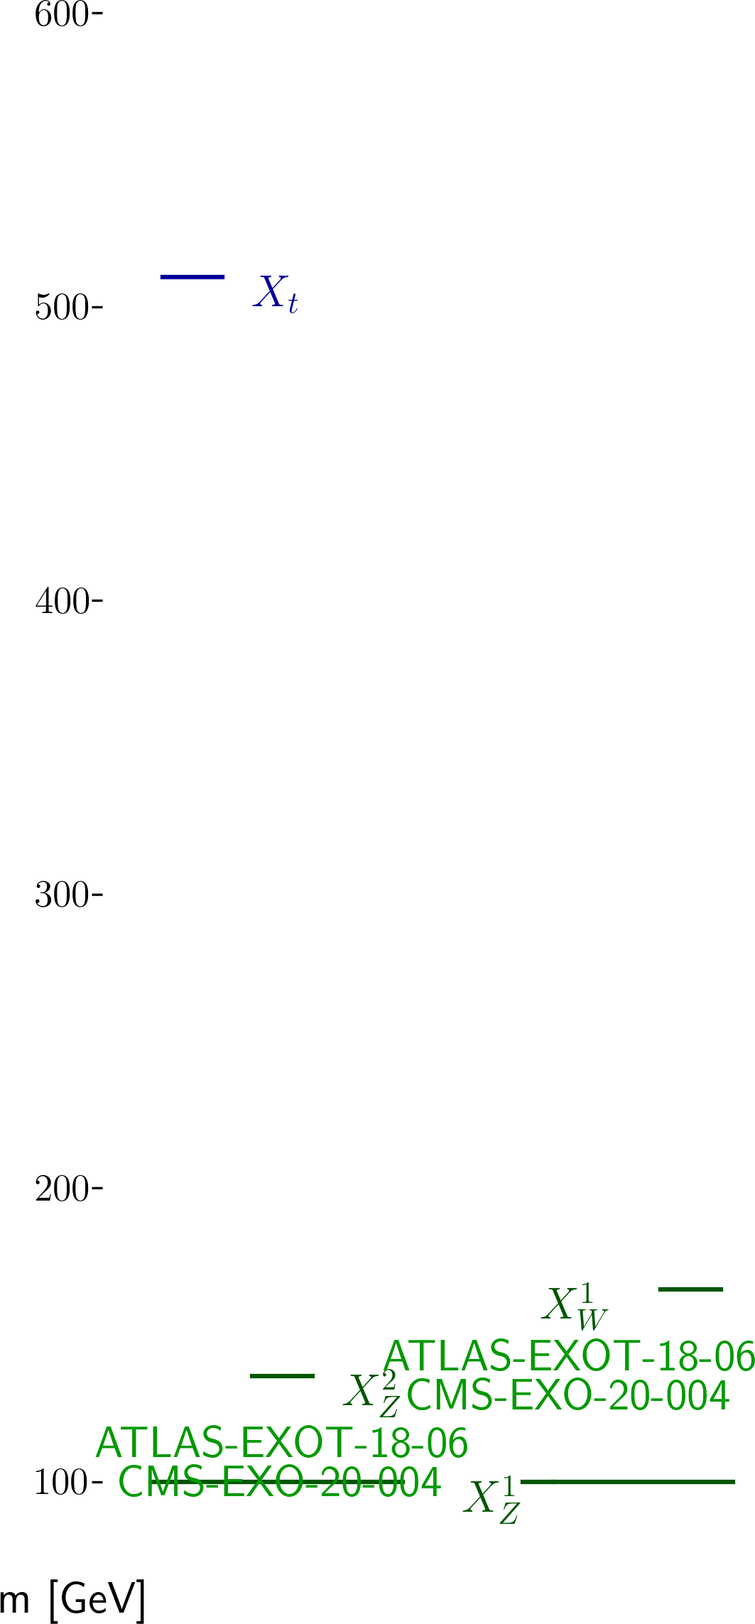
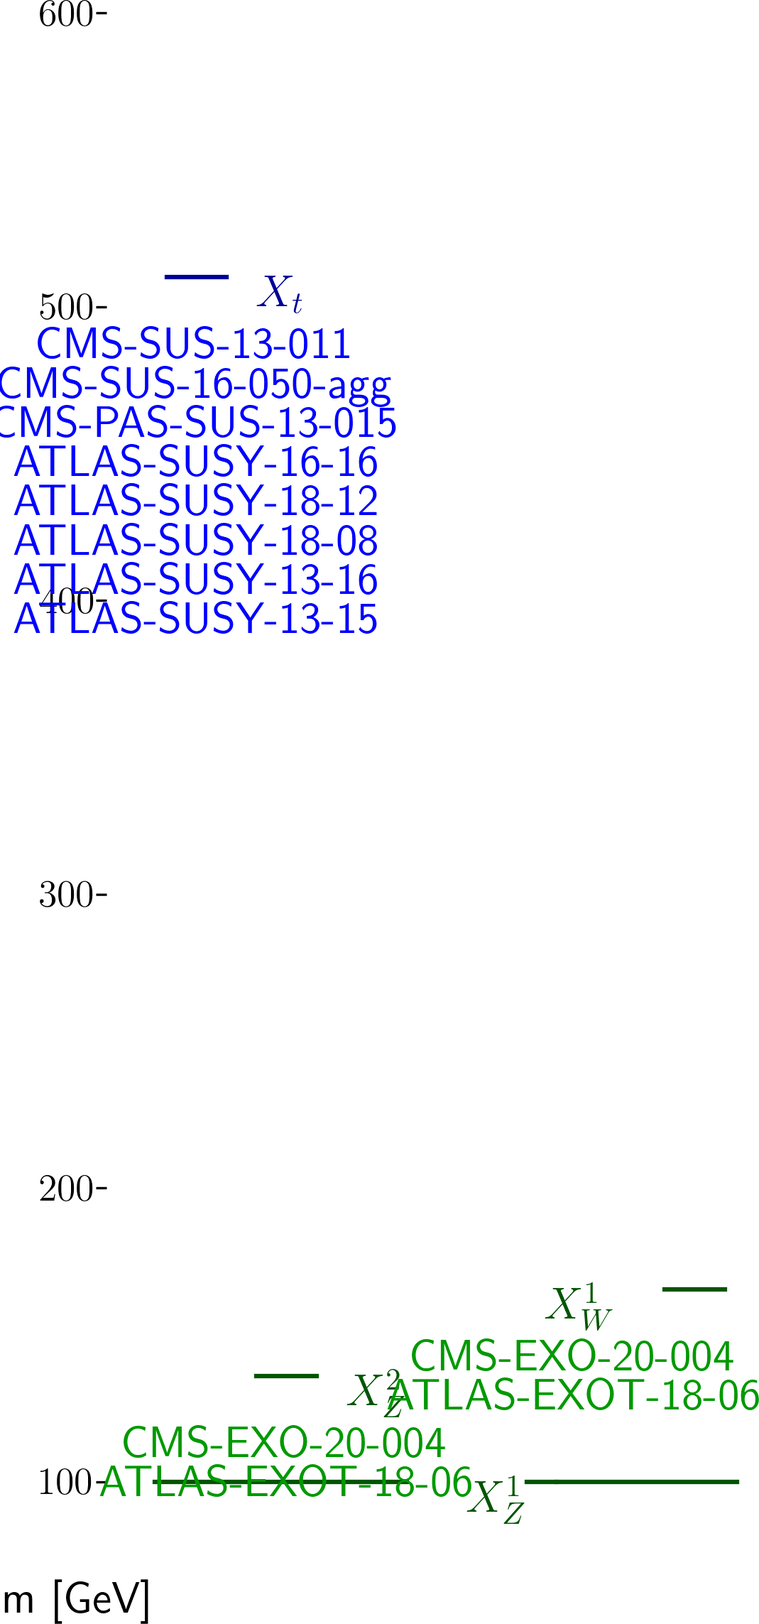
stops310

diff --git a/protomodels/stops_310/rawnumbers.html b/protomodels/stops_310/rawnumbers.html
@@ -3,6 +3,77 @@
 </tr>
 <tr><td><a href=http://cms-results.web.cern.ch/cms-results/public-results/publications/EXO-20-004/>CMS-EXO-20-004</a></td><td>comb</td> <td>-</td><td>TChiISR, TChiZISRqq</td><td> 2e+02 fb </td><td> 1e+02 fb</td><td style="text-align:right">4.6 &sigma;</td><td style="text-align:right">X<sup>1</sup><sub>W</sub>, X<sup>1</sup><sub>Z</sub>, X<sup>2</sup><sub>Z</sub></td></tr>
 <tr><td><a href=https://atlas.web.cern.ch/Atlas/GROUPS/PHYSICS/PAPERS/EXOT-2018-06/>ATLAS-EXOT-2018-06</a></td><td>em</td> <td>EM10</td><td>TChiISR, TChiZISRqq</td><td>413</td><td>359.00 +/- 10.00</td><td style="text-align:right">2.5 &sigma;</td><td style="text-align:right">X<sup>1</sup><sub>W</sub>, X<sup>1</sup><sub>Z</sub>, X<sup>2</sup><sub>Z</sub></td></tr>
+<tr><td><a href=https://atlas.web.cern.ch/Atlas/GROUPS/PHYSICS/PAPERS/SUSY-2018-12/>ATLAS-SUSY-2018-12</a></td><td>em</td> <td>SRBTT</td><td>T2tt</td><td>67</td><td>46.00 +/- 7.00</td><td style="text-align:right">2.1 &sigma;</td><td style="text-align:right">X<sup>1</sup><sub>Z</sub>, X<sub>t</sub></td></tr>
+<tr><td><a href=https://atlas.web.cern.ch/Atlas/GROUPS/PHYSICS/PAPERS/SUSY-2018-08/>ATLAS-SUSY-2018-08</a></td><td>em</td> <td>SRSF140</td><td>T2tt</td><td>9</td><td>5.10 +/- 0.90</td><td style="text-align:right">1.5 &sigma;</td><td style="text-align:right">X<sup>1</sup><sub>Z</sub>, X<sub>t</sub></td></tr>
+<tr><td><a href=https://atlas.web.cern.ch/Atlas/GROUPS/PHYSICS/PAPERS/SUSY-2016-16/>ATLAS-SUSY-2016-16</a></td><td>em</td> <td>tN_med</td><td>T2tt</td><td>50</td><td>36.30 +/- 6.60</td><td style="text-align:right">1.5 &sigma;</td><td style="text-align:right">X<sup>1</sup><sub>Z</sub>, X<sub>t</sub></td></tr>
+<tr><td><a href=https://atlas.web.cern.ch/Atlas/GROUPS/PHYSICS/PAPERS/SUSY-2013-16/>ATLAS-SUSY-2013-16</a></td><td>em</td> <td>SRA4</td><td>T2tt</td><td>4</td><td>2.40 +/- 0.70</td><td style="text-align:right">0.9 &sigma;</td><td style="text-align:right">X<sup>1</sup><sub>Z</sub>, X<sub>t</sub></td></tr>
+<tr><td><a href=https://atlas.web.cern.ch/Atlas/GROUPS/PHYSICS/PAPERS/SUSY-2013-15/>ATLAS-SUSY-2013-15</a></td><td>em</td> <td>tNboost</td><td>T2tt</td><td>5</td><td>3.30 +/- 0.70</td><td style="text-align:right">0.9 &sigma;</td><td style="text-align:right">X<sup>1</sup><sub>Z</sub>, X<sub>t</sub></td></tr>
+<tr><td><a href=https://twiki.cern.ch/twiki/bin/view/CMSPublic/PhysicsResultsSUS13015>CMS-PAS-SUS-13-015</a></td><td>em</td> <td>pTmiss350_Nb2</td><td>T2tt</td><td>15</td><td>8.60 +/- 7.10</td><td style="text-align:right">0.8 &sigma;</td><td style="text-align:right">X<sup>1</sup><sub>Z</sub>, X<sub>t</sub></td></tr>
+<tr><td><a href=http://cms-results.web.cern.ch/cms-results/public-results/publications/SUS-16-050/index.html>CMS-SUS-16-050-agg</a></td><td>comb</td> <td>-</td><td>T2tt</td><td> 2 fb </td><td> 2 fb</td><td style="text-align:right">0.7 &sigma;</td><td style="text-align:right">X<sup>1</sup><sub>Z</sub>, X<sub>t</sub></td></tr>
+<tr><td><a href=https://twiki.cern.ch/twiki/bin/view/CMSPublic/PhysicsResultsSUS13011>CMS-SUS-13-011</a></td><td>em</td> <td>LM150</td><td>T2tt</td><td>227</td><td>251.00 +/- 50.00</td><td style="text-align:right">-0.4 &sigma;</td><td style="text-align:right">X<sup>1</sup><sub>Z</sub>, X<sub>t</sub></td></tr>
 </table>
 <table style='color:grey'>
-<tr><th>Not in Best Combo</th><th>Type</th><th>Dataset</th><th>Topos</th><th>Observed</th><th>Expected</th><th>Approx &sigma;</th><th>Particles</th></table>
+<tr><th>Not in Best Combo</th><th>Type</th><th>Dataset</th><th>Topos</th><th>Observed</th><th>Expected</th><th>Approx &sigma;</th><th>Particles</th><tr><td><a href=https://atlas.web.cern.ch/Atlas/GROUPS/PHYSICS/PAPERS/SUSY-2015-02/>ATLAS-SUSY-2015-02</a></td><td>em</td> <td>SR1</td><td>T2tt</td><td>12</td><td>5.50 +/- 0.72</td><td style="text-align:right">2.3 &sigma;</td><td style="text-align:right">X<sup>1</sup><sub>Z</sub>, X<sub>t</sub></td></tr>
+<tr><td><a href=https://twiki.cern.ch/twiki/bin/view/CMSPublic/PhysicsResultsSUS13012>CMS-SUS-13-012</a></td><td>em</td> <td>6NJet8_500HT800 ...</td><td>T2tt</td><td>9</td><td>0.80 +/- 3.30</td><td style="text-align:right">1.8 &sigma;</td><td style="text-align:right">X<sup>1</sup><sub>Z</sub>, X<sub>t</sub></td></tr>
+<tr><td><a href=https://twiki.cern.ch/twiki/bin/view/CMSPublic/PhysicsResultsSUS13012>CMS-SUS-13-012</a></td><td>em</td> <td>3NJet6_1000HT12 ...</td><td>T2tt</td><td>32</td><td>22.80 +/- 5.20</td><td style="text-align:right">1.3 &sigma;</td><td style="text-align:right">X<sup>1</sup><sub>Z</sub>, X<sub>t</sub></td></tr>
+<tr><td><a href=https://atlas.web.cern.ch/Atlas/GROUPS/PHYSICS/PAPERS/SUSY-2013-04/>ATLAS-SUSY-2013-04</a></td><td>em</td> <td>GtGrid_SR_10ij5 ...</td><td>T2tt</td><td>3</td><td>1.37 +/- 0.35</td><td style="text-align:right">1.2 &sigma;</td><td style="text-align:right">X<sup>1</sup><sub>Z</sub>, X<sub>t</sub></td></tr>
+<tr><td><a href=http://cms-results.web.cern.ch/cms-results/public-results/publications/SUS-16-033/index.html>CMS-SUS-16-033</a></td><td>em</td> <td>SR2_Njet3_Nb0_H ...</td><td>T2tt</td><td>71</td><td>55.20 +/- 11.50</td><td style="text-align:right">1.1 &sigma;</td><td style="text-align:right">X<sup>1</sup><sub>Z</sub>, X<sub>t</sub></td></tr>
+<tr><td><a href=https://twiki.cern.ch/twiki/bin/view/CMSPublic/PhysicsResultsSUS13012>CMS-SUS-13-012</a></td><td>em</td> <td>3NJet6_1500HTin ...</td><td>T2tt</td><td>39</td><td>29.70 +/- 5.80</td><td style="text-align:right">1.1 &sigma;</td><td style="text-align:right">X<sup>1</sup><sub>Z</sub>, X<sub>t</sub></td></tr>
+<tr><td><a href=https://twiki.cern.ch/twiki/bin/view/CMSPublic/PhysicsResultsSUS13012>CMS-SUS-13-012</a></td><td>em</td> <td>8NJetinf_500HT8 ...</td><td>T2tt</td><td>8</td><td>4.80 +/- 2.30</td><td style="text-align:right">1.0 &sigma;</td><td style="text-align:right">X<sup>1</sup><sub>Z</sub>, X<sub>t</sub></td></tr>
+<tr><td><a href=https://twiki.cern.ch/twiki/bin/view/CMSPublic/PhysicsResultsSUS13012>CMS-SUS-13-012</a></td><td>em</td> <td>3NJet6_1250HT15 ...</td><td>T2tt</td><td>23</td><td>17.60 +/- 4.10</td><td style="text-align:right">0.9 &sigma;</td><td style="text-align:right">X<sup>1</sup><sub>Z</sub>, X<sub>t</sub></td></tr>
+<tr><td><a href=https://atlas.web.cern.ch/Atlas/GROUPS/PHYSICS/PAPERS/SUSY-2013-04/>ATLAS-SUSY-2013-04</a></td><td>em</td> <td>GtGrid_SR_8ij80 ...</td><td>T2tt</td><td>2</td><td>0.90 +/- 0.60</td><td style="text-align:right">0.9 &sigma;</td><td style="text-align:right">X<sup>1</sup><sub>Z</sub>, X<sub>t</sub></td></tr>
+<tr><td><a href=https://twiki.cern.ch/twiki/bin/view/CMSPublic/PhysicsResultsSUS13012>CMS-SUS-13-012</a></td><td>em</td> <td>3NJet6_800HT100 ...</td><td>T2tt</td><td>124</td><td>108.00 +/- 15.00</td><td style="text-align:right">0.9 &sigma;</td><td style="text-align:right">X<sup>1</sup><sub>Z</sub>, X<sub>t</sub></td></tr>
+<tr><td><a href=https://atlas.web.cern.ch/Atlas/GROUPS/PHYSICS/PAPERS/SUSY-2013-04/>ATLAS-SUSY-2013-04</a></td><td>em</td> <td>GtGrid_SR_9ej50 ...</td><td>T2tt</td><td>5</td><td>3.30 +/- 0.70</td><td style="text-align:right">0.9 &sigma;</td><td style="text-align:right">X<sup>1</sup><sub>Z</sub>, X<sub>t</sub></td></tr>
+<tr><td><a href=https://twiki.cern.ch/twiki/bin/view/CMSPublic/PhysicsResultsSUS13012>CMS-SUS-13-012</a></td><td>em</td> <td>8NJetinf_1000HT ...</td><td>T2tt</td><td>8</td><td>5.60 +/- 2.30</td><td style="text-align:right">0.8 &sigma;</td><td style="text-align:right">X<sup>1</sup><sub>Z</sub>, X<sub>t</sub></td></tr>
+<tr><td><a href=https://twiki.cern.ch/twiki/bin/view/CMSPublic/PhysicsResultsSUS13012>CMS-SUS-13-012</a></td><td>em</td> <td>6NJet8_800HT100 ...</td><td>T2tt</td><td>35</td><td>28.60 +/- 6.90</td><td style="text-align:right">0.8 &sigma;</td><td style="text-align:right">X<sup>1</sup><sub>Z</sub>, X<sub>t</sub></td></tr>
+<tr><td><a href=https://twiki.cern.ch/twiki/bin/view/CMSPublic/PhysicsResultsSUS13012>CMS-SUS-13-012</a></td><td>em</td> <td>6NJet8_500HT800 ...</td><td>T2tt</td><td>62</td><td>52.00 +/- 12.00</td><td style="text-align:right">0.7 &sigma;</td><td style="text-align:right">X<sup>1</sup><sub>Z</sub>, X<sub>t</sub></td></tr>
+<tr><td><a href=https://atlas.web.cern.ch/Atlas/GROUPS/PHYSICS/PAPERS/SUSY-2013-04/>ATLAS-SUSY-2013-04</a></td><td>em</td> <td>GtGrid_SR_8ej50 ...</td><td>T2tt</td><td>40</td><td>35.00 +/- 4.00</td><td style="text-align:right">0.7 &sigma;</td><td style="text-align:right">X<sup>1</sup><sub>Z</sub>, X<sub>t</sub></td></tr>
+<tr><td><a href=https://atlas.web.cern.ch/Atlas/GROUPS/PHYSICS/PAPERS/SUSY-2013-04/>ATLAS-SUSY-2013-04</a></td><td>em</td> <td>GtGrid_SR_9ej50 ...</td><td>T2tt</td><td>8</td><td>6.10 +/- 1.70</td><td style="text-align:right">0.7 &sigma;</td><td style="text-align:right">X<sup>1</sup><sub>Z</sub>, X<sub>t</sub></td></tr>
+<tr><td><a href=https://twiki.cern.ch/twiki/bin/view/CMSPublic/PhysicsResultsSUS13012>CMS-SUS-13-012</a></td><td>em</td> <td>3NJet6_1000HT12 ...</td><td>T2tt</td><td>335</td><td>305.00 +/- 41.00</td><td style="text-align:right">0.7 &sigma;</td><td style="text-align:right">X<sup>1</sup><sub>Z</sub>, X<sub>t</sub></td></tr>
+<tr><td><a href=http://cms-results.web.cern.ch/cms-results/public-results/publications/SUS-16-033/index.html>CMS-SUS-16-033</a></td><td>em</td> <td>SR6_Njet2_Nb2_H ...</td><td>T2tt</td><td>216</td><td>196.00 +/- 28.00</td><td style="text-align:right">0.6 &sigma;</td><td style="text-align:right">X<sup>1</sup><sub>Z</sub>, X<sub>t</sub></td></tr>
+<tr><td><a href=http://cms-results.web.cern.ch/cms-results/public-results/publications/SUS-16-033/index.html>CMS-SUS-16-033</a></td><td>em</td> <td>SR1_Njet2_Nb0_H ...</td><td>T2tt</td><td>7838</td><td>7584.00 +/- 433.00</td><td style="text-align:right">0.6 &sigma;</td><td style="text-align:right">X<sup>1</sup><sub>Z</sub>, X<sub>t</sub></td></tr>
+<tr><td><a href=http://cms-results.web.cern.ch/cms-results/public-results/publications/SUS-16-033/index.html>CMS-SUS-16-033</a></td><td>em</td> <td>SR12_Njet5_Nb1_ ...</td><td>T2tt</td><td>48</td><td>42.20 +/- 9.70</td><td style="text-align:right">0.5 &sigma;</td><td style="text-align:right">X<sup>1</sup><sub>Z</sub>, X<sub>t</sub></td></tr>
+<tr><td><a href=https://twiki.cern.ch/twiki/bin/view/CMSPublic/PhysicsResultsSUS13012>CMS-SUS-13-012</a></td><td>em</td> <td>3NJet6_500HT800 ...</td><td>T2tt</td><td>454</td><td>418.00 +/- 66.00</td><td style="text-align:right">0.5 &sigma;</td><td style="text-align:right">X<sup>1</sup><sub>Z</sub>, X<sub>t</sub></td></tr>
+<tr><td><a href=http://cms-results.web.cern.ch/cms-results/public-results/publications/SUS-16-033/index.html>CMS-SUS-16-033</a></td><td>em</td> <td>SR7_Njet3_Nb1_H ...</td><td>T2tt</td><td>123</td><td>113.00 +/- 18.00</td><td style="text-align:right">0.5 &sigma;</td><td style="text-align:right">X<sup>1</sup><sub>Z</sub>, X<sub>t</sub></td></tr>
+<tr><td><a href=https://twiki.cern.ch/twiki/bin/view/CMSPublic/PhysicsResultsSUS13012>CMS-SUS-13-012</a></td><td>em</td> <td>3NJet6_1500HTin ...</td><td>T2tt</td><td>94</td><td>86.00 +/- 17.00</td><td style="text-align:right">0.4 &sigma;</td><td style="text-align:right">X<sup>1</sup><sub>Z</sub>, X<sub>t</sub></td></tr>
+<tr><td><a href=http://cms-results.web.cern.ch/cms-results/public-results/publications/SUS-16-033/index.html>CMS-SUS-16-033</a></td><td>em</td> <td>SR9_NJet5_Nb2_H ...</td><td>T2tt</td><td>6</td><td>4.40 +/- 3.40</td><td style="text-align:right">0.4 &sigma;</td><td style="text-align:right">X<sup>1</sup><sub>Z</sub>, X<sub>t</sub></td></tr>
+<tr><td><a href=https://twiki.cern.ch/twiki/bin/view/CMSPublic/PhysicsResultsSUS13012>CMS-SUS-13-012</a></td><td>em</td> <td>3NJet6_500HT800 ...</td><td>T2tt</td><td>62</td><td>57.40 +/- 11.20</td><td style="text-align:right">0.4 &sigma;</td><td style="text-align:right">X<sup>1</sup><sub>Z</sub>, X<sub>t</sub></td></tr>
+<tr><td><a href=https://atlas.web.cern.ch/Atlas/GROUPS/PHYSICS/PAPERS/SUSY-2013-04/>ATLAS-SUSY-2013-04</a></td><td>em</td> <td>GtGrid_SR_8ej50 ...</td><td>T2tt</td><td>44</td><td>40.00 +/- 10.00</td><td style="text-align:right">0.4 &sigma;</td><td style="text-align:right">X<sup>1</sup><sub>Z</sub>, X<sub>t</sub></td></tr>
+<tr><td><a href=https://atlas.web.cern.ch/Atlas/GROUPS/PHYSICS/PAPERS/SUSY-2013-04/>ATLAS-SUSY-2013-04</a></td><td>em</td> <td>GtGrid_SR_7ej80 ...</td><td>T2tt</td><td>12</td><td>11.00 +/- 2.20</td><td style="text-align:right">0.3 &sigma;</td><td style="text-align:right">X<sup>1</sup><sub>Z</sub>, X<sub>t</sub></td></tr>
+<tr><td><a href=http://cms-results.web.cern.ch/cms-results/public-results/publications/SUS-16-033/index.html>CMS-SUS-16-033</a></td><td>em</td> <td>SR4_Njet5_Nb0_H ...</td><td>T2tt</td><td>25</td><td>23.00 +/- 6.50</td><td style="text-align:right">0.3 &sigma;</td><td style="text-align:right">X<sup>1</sup><sub>Z</sub>, X<sub>t</sub></td></tr>
+<tr><td><a href=https://twiki.cern.ch/twiki/bin/view/CMSPublic/PhysicsResultsSUS13012>CMS-SUS-13-012</a></td><td>em</td> <td>3NJet6_800HT100 ...</td><td>T2tt</td><td>808</td><td>777.00 +/- 107.00</td><td style="text-align:right">0.3 &sigma;</td><td style="text-align:right">X<sup>1</sup><sub>Z</sub>, X<sub>t</sub></td></tr>
+<tr><td><a href=https://twiki.cern.ch/twiki/bin/view/CMSPublic/PhysicsResultsSUS13012>CMS-SUS-13-012</a></td><td>em</td> <td>3NJet6_1000HT12 ...</td><td>T2tt</td><td>34</td><td>32.30 +/- 6.10</td><td style="text-align:right">0.2 &sigma;</td><td style="text-align:right">X<sup>1</sup><sub>Z</sub>, X<sub>t</sub></td></tr>
+<tr><td><a href=https://twiki.cern.ch/twiki/bin/view/CMSPublic/PhysicsResultsSUS13012>CMS-SUS-13-012</a></td><td>em</td> <td>8NJetinf_800HT1 ...</td><td>T2tt</td><td>9</td><td>8.30 +/- 3.40</td><td style="text-align:right">0.2 &sigma;</td><td style="text-align:right">X<sup>1</sup><sub>Z</sub>, X<sub>t</sub></td></tr>
+<tr><td><a href=http://cms-results.web.cern.ch/cms-results/public-results/publications/SUS-16-033/index.html>CMS-SUS-16-033</a></td><td>em</td> <td>SR3_Njet5_Nb0_H ...</td><td>T2tt</td><td>819</td><td>806.00 +/- 57.00</td><td style="text-align:right">0.2 &sigma;</td><td style="text-align:right">X<sup>1</sup><sub>Z</sub>, X<sub>t</sub></td></tr>
+<tr><td><a href=https://twiki.cern.ch/twiki/bin/view/CMSPublic/PhysicsResultsSUS13012>CMS-SUS-13-012</a></td><td>em</td> <td>6NJet8_1000HT12 ...</td><td>T2tt</td><td>4</td><td>2.20 +/- 3.80</td><td style="text-align:right">0.2 &sigma;</td><td style="text-align:right">X<sup>1</sup><sub>Z</sub>, X<sub>t</sub></td></tr>
+<tr><td><a href=https://twiki.cern.ch/twiki/bin/view/CMSPublic/PhysicsResultsSUS13012>CMS-SUS-13-012</a></td><td>em</td> <td>6NJet8_1250HT15 ...</td><td>T2tt</td><td>2</td><td>0.50 +/- 2.60</td><td style="text-align:right">0.1 &sigma;</td><td style="text-align:right">X<sup>1</sup><sub>Z</sub>, X<sub>t</sub></td></tr>
+<tr><td><a href=https://twiki.cern.ch/twiki/bin/view/CMSPublic/PhysicsResultsSUS13012>CMS-SUS-13-012</a></td><td>em</td> <td>3NJet6_500HT800 ...</td><td>T2tt</td><td>2305</td><td>2278.00 +/- 266.00</td><td style="text-align:right">0.1 &sigma;</td><td style="text-align:right">X<sup>1</sup><sub>Z</sub>, X<sub>t</sub></td></tr>
+<tr><td><a href=https://atlas.web.cern.ch/Atlas/GROUPS/PHYSICS/PAPERS/SUSY-2015-02/>ATLAS-SUSY-2015-02</a></td><td>em</td> <td>SR3</td><td>T2tt</td><td>1</td><td>1.03 +/- 0.18</td><td style="text-align:right">0.1 &sigma;</td><td style="text-align:right">X<sup>1</sup><sub>Z</sub>, X<sub>t</sub></td></tr>
+<tr><td><a href=https://twiki.cern.ch/twiki/bin/view/CMSPublic/PhysicsResultsSUS13012>CMS-SUS-13-012</a></td><td>em</td> <td>3NJet6_500HT800 ...</td><td>T2tt</td><td>6159</td><td>6088.00 +/- 665.00</td><td style="text-align:right">0.1 &sigma;</td><td style="text-align:right">X<sup>1</sup><sub>Z</sub>, X<sub>t</sub></td></tr>
+<tr><td><a href=https://atlas.web.cern.ch/Atlas/GROUPS/PHYSICS/PAPERS/SUSY-2013-04/>ATLAS-SUSY-2013-04</a></td><td>em</td> <td>GtGrid_SR_7ej80 ...</td><td>T2tt</td><td>17</td><td>17.00 +/- 6.00</td><td style="text-align:right">0.0 &sigma;</td><td style="text-align:right">X<sup>1</sup><sub>Z</sub>, X<sub>t</sub></td></tr>
+<tr><td><a href=https://atlas.web.cern.ch/Atlas/GROUPS/PHYSICS/PAPERS/SUSY-2013-04/>ATLAS-SUSY-2013-04</a></td><td>em</td> <td>GtGrid_SR_8ij80 ...</td><td>T2tt</td><td>3</td><td>3.30 +/- 2.20</td><td style="text-align:right">-0.1 &sigma;</td><td style="text-align:right">X<sup>1</sup><sub>Z</sub>, X<sub>t</sub></td></tr>
+<tr><td><a href=https://atlas.web.cern.ch/Atlas/GROUPS/PHYSICS/PAPERS/SUSY-2015-02/>ATLAS-SUSY-2015-02</a></td><td>em</td> <td>SR2</td><td>T2tt</td><td>1</td><td>1.25 +/- 0.26</td><td style="text-align:right">-0.1 &sigma;</td><td style="text-align:right">X<sup>1</sup><sub>Z</sub>, X<sub>t</sub></td></tr>
+<tr><td><a href=http://cms-results.web.cern.ch/cms-results/public-results/publications/SUS-19-006/index.html>CMS-SUS-19-006-agg</a></td><td>comb</td> <td>-</td><td>T2tt</td><td> 2 fb </td><td> 2 fb</td><td style="text-align:right">-0.1 &sigma;</td><td style="text-align:right">X<sup>1</sup><sub>Z</sub>, X<sub>t</sub></td></tr>
+<tr><td><a href=https://twiki.cern.ch/twiki/bin/view/CMSPublic/PhysicsResultsSUS13012>CMS-SUS-13-012</a></td><td>em</td> <td>6NJet8_1000HT12 ...</td><td>T2tt</td><td>67</td><td>70.00 +/- 16.00</td><td style="text-align:right">-0.1 &sigma;</td><td style="text-align:right">X<sup>1</sup><sub>Z</sub>, X<sub>t</sub></td></tr>
+<tr><td><a href=https://twiki.cern.ch/twiki/bin/view/CMSPublic/PhysicsResultsSUS13012>CMS-SUS-13-012</a></td><td>em</td> <td>6NJet8_1000HT12 ...</td><td>T2tt</td><td>20</td><td>21.60 +/- 5.80</td><td style="text-align:right">-0.2 &sigma;</td><td style="text-align:right">X<sup>1</sup><sub>Z</sub>, X<sub>t</sub></td></tr>
+<tr><td><a href=https://atlas.web.cern.ch/Atlas/GROUPS/PHYSICS/PAPERS/SUSY-2013-04/>ATLAS-SUSY-2013-04</a></td><td>em</td> <td>GtGrid_SR_9ej50 ...</td><td>T2tt</td><td>7</td><td>8.00 +/- 2.70</td><td style="text-align:right">-0.2 &sigma;</td><td style="text-align:right">X<sup>1</sup><sub>Z</sub>, X<sub>t</sub></td></tr>
+<tr><td><a href=https://twiki.cern.ch/twiki/bin/view/CMSPublic/PhysicsResultsSUS13012>CMS-SUS-13-012</a></td><td>em</td> <td>3NJet6_800HT100 ...</td><td>T2tt</td><td>52</td><td>54.80 +/- 9.70</td><td style="text-align:right">-0.2 &sigma;</td><td style="text-align:right">X<sup>1</sup><sub>Z</sub>, X<sub>t</sub></td></tr>
+<tr><td><a href=https://atlas.web.cern.ch/Atlas/GROUPS/PHYSICS/PAPERS/SUSY-2013-04/>ATLAS-SUSY-2013-04</a></td><td>em</td> <td>GtGrid_SR_8ij80 ...</td><td>T2tt</td><td>1</td><td>1.50 +/- 0.90</td><td style="text-align:right">-0.2 &sigma;</td><td style="text-align:right">X<sup>1</sup><sub>Z</sub>, X<sub>t</sub></td></tr>
+<tr><td><a href=http://cms-results.web.cern.ch/cms-results/public-results/publications/SUS-16-033/index.html>CMS-SUS-16-033</a></td><td>em</td> <td>SR8_Njet5_Nb3_H ...</td><td>T2tt</td><td>17</td><td>19.50 +/- 8.40</td><td style="text-align:right">-0.2 &sigma;</td><td style="text-align:right">X<sup>1</sup><sub>Z</sub>, X<sub>t</sub></td></tr>
+<tr><td><a href=https://twiki.cern.ch/twiki/bin/view/CMSPublic/PhysicsResultsSUS13012>CMS-SUS-13-012</a></td><td>em</td> <td>6NJet8_1500HTin ...</td><td>T2tt</td><td>18</td><td>21.10 +/- 8.10</td><td style="text-align:right">-0.3 &sigma;</td><td style="text-align:right">X<sup>1</sup><sub>Z</sub>, X<sub>t</sub></td></tr>
+<tr><td><a href=https://twiki.cern.ch/twiki/bin/view/CMSPublic/PhysicsResultsSUS13012>CMS-SUS-13-012</a></td><td>em</td> <td>3NJet6_1000HT12 ...</td><td>T2tt</td><td>129</td><td>137.00 +/- 20.00</td><td style="text-align:right">-0.3 &sigma;</td><td style="text-align:right">X<sup>1</sup><sub>Z</sub>, X<sub>t</sub></td></tr>
+<tr><td><a href=https://twiki.cern.ch/twiki/bin/view/CMSPublic/PhysicsResultsSUS13012>CMS-SUS-13-012</a></td><td>em</td> <td>6NJet8_500HT800 ...</td><td>T2tt</td><td>266</td><td>290.00 +/- 65.00</td><td style="text-align:right">-0.4 &sigma;</td><td style="text-align:right">X<sup>1</sup><sub>Z</sub>, X<sub>t</sub></td></tr>
+<tr><td><a href=https://twiki.cern.ch/twiki/bin/view/CMSPublic/PhysicsResultsSUS13012>CMS-SUS-13-012</a></td><td>em</td> <td>6NJet8_1250HT15 ...</td><td>T2tt</td><td>24</td><td>28.00 +/- 8.20</td><td style="text-align:right">-0.4 &sigma;</td><td style="text-align:right">X<sup>1</sup><sub>Z</sub>, X<sub>t</sub></td></tr>
+<tr><td><a href=https://twiki.cern.ch/twiki/bin/view/CMSPublic/PhysicsResultsSUS13012>CMS-SUS-13-012</a></td><td>em</td> <td>3NJet6_1250HT15 ...</td><td>T2tt</td><td>38</td><td>42.80 +/- 9.50</td><td style="text-align:right">-0.4 &sigma;</td><td style="text-align:right">X<sup>1</sup><sub>Z</sub>, X<sub>t</sub></td></tr>
+<tr><td><a href=https://twiki.cern.ch/twiki/bin/view/CMSPublic/PhysicsResultsSUS13012>CMS-SUS-13-012</a></td><td>em</td> <td>6NJet8_800HT100 ...</td><td>T2tt</td><td>111</td><td>124.00 +/- 29.00</td><td style="text-align:right">-0.4 &sigma;</td><td style="text-align:right">X<sup>1</sup><sub>Z</sub>, X<sub>t</sub></td></tr>
+<tr><td><a href=https://twiki.cern.ch/twiki/bin/view/CMSPublic/PhysicsResultsSUS13012>CMS-SUS-13-012</a></td><td>em</td> <td>8NJetinf_1250HT ...</td><td>T2tt</td><td>5</td><td>7.10 +/- 3.80</td><td style="text-align:right">-0.4 &sigma;</td><td style="text-align:right">X<sup>1</sup><sub>Z</sub>, X<sub>t</sub></td></tr>
+<tr><td><a href=https://atlas.web.cern.ch/Atlas/GROUPS/PHYSICS/PAPERS/SUSY-2013-04/>ATLAS-SUSY-2013-04</a></td><td>em</td> <td>GtGrid_SR_8ej50 ...</td><td>T2tt</td><td>44</td><td>50.00 +/- 10.00</td><td style="text-align:right">-0.5 &sigma;</td><td style="text-align:right">X<sup>1</sup><sub>Z</sub>, X<sub>t</sub></td></tr>
+<tr><td><a href=https://twiki.cern.ch/twiki/bin/view/CMSPublic/PhysicsResultsSUS13012>CMS-SUS-13-012</a></td><td>em</td> <td>6NJet8_800HT100 ...</td><td>T2tt</td><td>4</td><td>6.00 +/- 2.80</td><td style="text-align:right">-0.5 &sigma;</td><td style="text-align:right">X<sup>1</sup><sub>Z</sub>, X<sub>t</sub></td></tr>
+<tr><td><a href=https://twiki.cern.ch/twiki/bin/view/CMSPublic/PhysicsResultsSUS13012>CMS-SUS-13-012</a></td><td>em</td> <td>3NJet6_1250HT15 ...</td><td>T2tt</td><td>98</td><td>109.00 +/- 18.00</td><td style="text-align:right">-0.5 &sigma;</td><td style="text-align:right">X<sup>1</sup><sub>Z</sub>, X<sub>t</sub></td></tr>
+<tr><td><a href=https://twiki.cern.ch/twiki/bin/view/CMSPublic/PhysicsResultsSUS13012>CMS-SUS-13-012</a></td><td>em</td> <td>3NJet6_800HT100 ...</td><td>T2tt</td><td>305</td><td>330.00 +/- 40.00</td><td style="text-align:right">-0.6 &sigma;</td><td style="text-align:right">X<sup>1</sup><sub>Z</sub>, X<sub>t</sub></td></tr>
+<tr><td><a href=https://twiki.cern.ch/twiki/bin/view/CMSPublic/PhysicsResultsSUS13012>CMS-SUS-13-012</a></td><td>em</td> <td>8NJetinf_1500HT ...</td><td>T2tt</td><td>2</td><td>3.30 +/- 4.70</td><td style="text-align:right">-0.7 &sigma;</td><td style="text-align:right">X<sup>1</sup><sub>Z</sub>, X<sub>t</sub></td></tr>
+<tr><td><a href=http://cms-results.web.cern.ch/cms-results/public-results/publications/SUS-16-033/index.html>CMS-SUS-16-033</a></td><td>em</td> <td>SR11_Njet7_Nb1_ ...</td><td>T2tt</td><td>890</td><td>969.00 +/- 80.00</td><td style="text-align:right">-0.9 &sigma;</td><td style="text-align:right">X<sup>1</sup><sub>Z</sub>, X<sub>t</sub></td></tr>
+<tr><td><a href=https://twiki.cern.ch/twiki/bin/view/CMSPublic/PhysicsResultsSUS13012>CMS-SUS-13-012</a></td><td>em</td> <td>6NJet8_1250HT15 ...</td><td>T2tt</td><td>5</td><td>9.40 +/- 3.60</td><td style="text-align:right">-0.9 &sigma;</td><td style="text-align:right">X<sup>1</sup><sub>Z</sub>, X<sub>t</sub></td></tr>
+<tr><td><a href=https://atlas.web.cern.ch/Atlas/GROUPS/PHYSICS/PAPERS/SUSY-2013-04/>ATLAS-SUSY-2013-04</a></td><td>em</td> <td>GtGrid_SR_7ej80 ...</td><td>T2tt</td><td>13</td><td>25.00 +/- 10.00</td><td style="text-align:right">-1.1 &sigma;</td><td style="text-align:right">X<sup>1</sup><sub>Z</sub>, X<sub>t</sub></td></tr>
+<tr><td><a href=https://twiki.cern.ch/twiki/bin/view/CMSPublic/PhysicsResultsSUS13012>CMS-SUS-13-012</a></td><td>em</td> <td>6NJet8_1500HTin ...</td><td>T2tt</td><td>3</td><td>7.90 +/- 3.60</td><td style="text-align:right">-1.1 &sigma;</td><td style="text-align:right">X<sup>1</sup><sub>Z</sub>, X<sub>t</sub></td></tr>
+</table>

diff --git a/protomodels/stops_310/index.html b/protomodels/stops_310/index.html
@@ -1,20 +1,22 @@
 <html>
 <body>
 <center>
-<table><td><h1>Current best protomodel: <i>K</i>=22.48, <i>TL</i>=27.73</h1><td><img height=60px src=https://smodels.github.io//protomodels/logos/protomodel_lego.png></table>
+<table><td><h1>Current best protomodel: <i>K</i>=None, <i>TL</i>=9.96</h1><td><img height=60px src=https://smodels.github.io//protomodels/logos/protomodel_lego.png></table>
 </center>
 <b><a href=./hiscore.slha>ProtoModel</a> <a href=./pmodel.dict>(dict)</a> produced with <a href=https://smodels.github.io//docs/Validation310>database v3.1.0</a>, combination strategy <a href=./matrix.png>aggressive</a> in walker 0 step 260.</b> <br>
 <table width=80%>
 <tr><td>
-<br><b>2 predictions available. Highest r values are:</b><br><ul>
+<br><b>29 predictions available. Highest r values are:</b><br><ul>
 <li><a href=https://atlas.web.cern.ch/Atlas/GROUPS/PHYSICS/PAPERS/EXOT-2018-06/>ATLAS-EXOT-2018-06</a>:em:TChiISR,TChiZISRqq r=1.38, r<sub>exp</sub>=1.49<br>
+<li><a href=http://cms-results.web.cern.ch/cms-results/public-results/publications/SUS-20-002/index.html>CMS-SUS-20-002</a>:ul:T2tt r=0.42, r<sub>exp</sub>=0.38<br>
 <li><a href=http://cms-results.web.cern.ch/cms-results/public-results/publications/EXO-20-004/>CMS-EXO-20-004</a>:em:TChiISR,TChiZISRqq r=0.28, r<sub>exp</sub>=0.46<br>
+<li><a href=http://cms-results.web.cern.ch/cms-results/public-results/publications/SUS-19-010/index.html>CMS-SUS-19-010</a>:ul:T2tt r=0.28, r<sub>exp</sub>=0.26<br>
 </ul>
-<td><img width=600px src=./texdoc.png?1754481918>
-<br><font size=-1>Last updated: Wed Aug  6 14:05:18 2025</font>
+<td><img width=600px src=./texdoc.png?1754573809>
+<br><font size=-1>Last updated: Thu Aug  7 15:36:49 2025</font>
 </table><table style="width:80%">
-<td width=45%><img height=580px src=./ruler.png?1754481918><td width=55%><img height=220px src=./decays.png?1754481918>
-<font size=-3><iframe type="text/html" height="350px" width="100%" frameborder="0" src="./rawnumbers.html?1754481918"></iframe></font>
+<td width=45%><img height=580px src=./ruler.png?1754573809><td width=55%><img height=220px src=./decays.png?1754573809>
+<font size=-3><iframe type="text/html" height="350px" width="100%" frameborder="0" src="./rawnumbers.html?1754573809"></iframe></font>
 </table>
 </body>
 </html>
